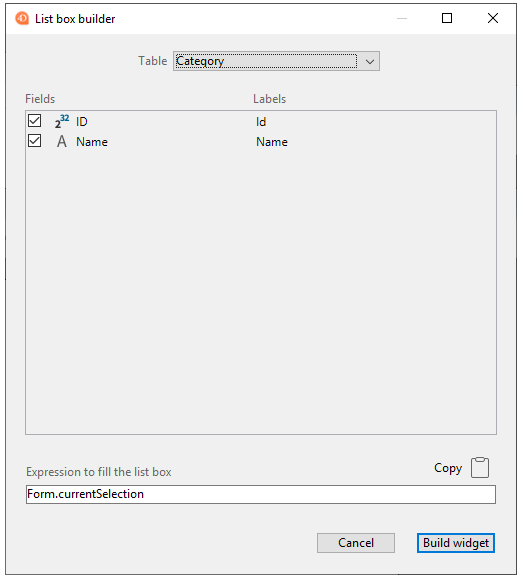
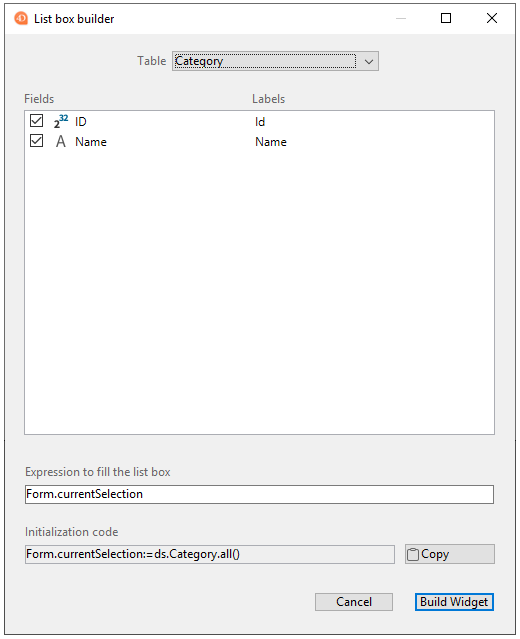
Final updates
Updated images after closure meeting

diff --git a/docs/FormEditor/listboxWizard.md b/docs/FormEditor/listboxWizard.md
@@ -39,9 +39,11 @@ The List box builder lets you create and fill entity selection list boxes in a f
 	
 	This expression can be changed if necessary.
 	
-	Clicking on the clipboard icon will copy the expression for loading all records into memory. In the case of the example shown, the copied expression when pasted is: `Form.currentSelection:=ds.Category.all()` 
+5.	Clicking on the **Copy** button will copy the expression for loading all records into memory:
+
+	![](assets/en/FormEditor/listboxBuilderCode.png)
 	
-5.	Click the the **Build widget** button to create the list box.
+6.	Click the the **Build widget** button to create the list box.
 
 	![](assets/en/FormEditor/listboxBuilderBuild.png)
 	
